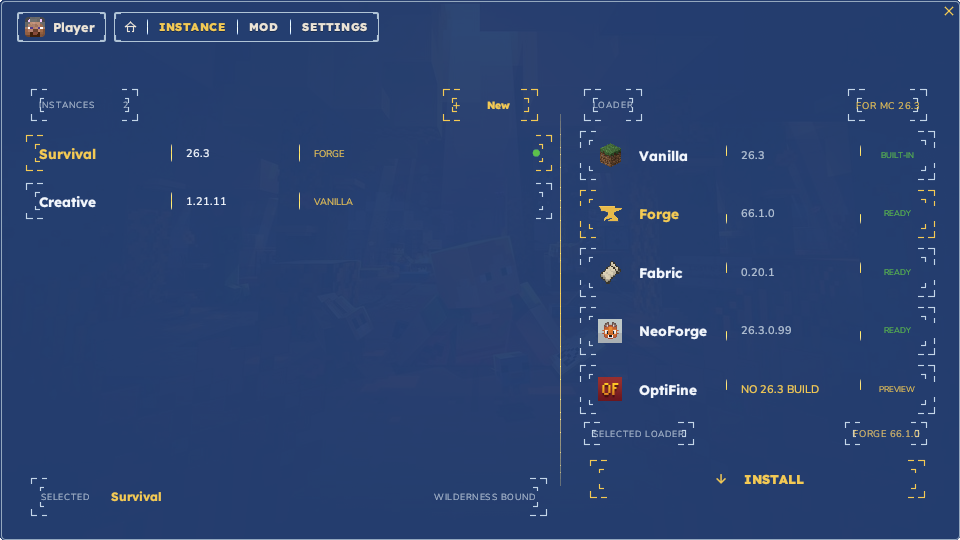
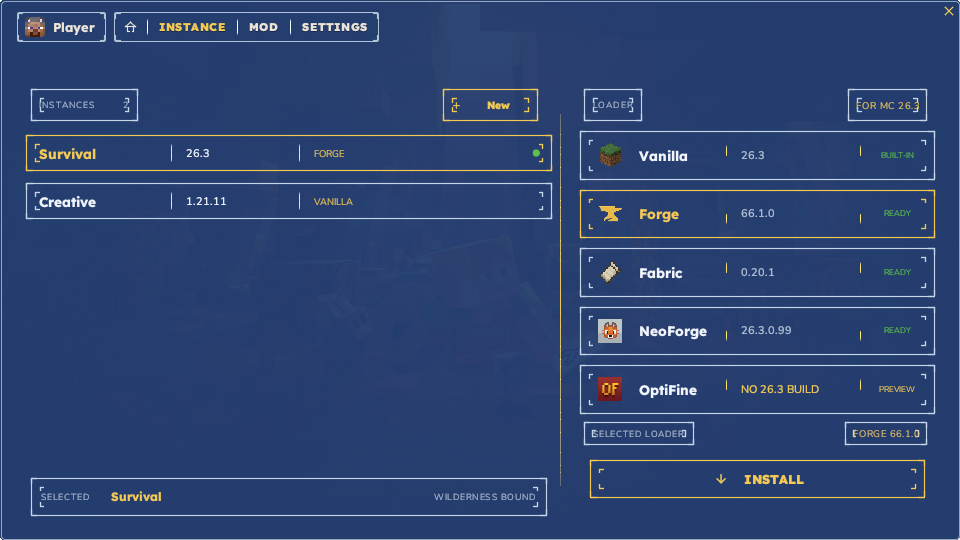
Release 0.2.19 with strokes along each element's length and width.
Version-page corners stay, including the smaller cap inside each corner.

Changed region(s): [[0.625, 0.6519, 0.9688, 0.6815], [0.625, 0.3259, 0.9688, 0.3556]]

diff --git a/src/desktop.rs b/src/desktop.rs
@@ -3244,43 +3244,38 @@ fn paint_open_frame(painter: &egui::Painter, rect: egui::Rect) {
     paint_corner_caps(painter, rect, edge);
 }
 
-/// Version-page element: the previous corner caps, a smaller cap inside each
-/// corner, and a short designed mark on each side. No full stroke.
+/// Version-page element: stroke the length and the width, keep the corner cap,
+/// and keep the smaller cap inside each corner.
 fn paint_version_corners(painter: &egui::Painter, rect: egui::Rect, on: bool) {
     let color = if on { GOLD } else { egui::Color32::from_rgb(196, 214, 232) };
-    let stroke = egui::Stroke::new(1.15, color);
+    let side = egui::Stroke::new(1.15, color);
+    let corner = egui::Stroke::new(1.35, color);
+    let left = rect.left() + 1.0;
+    let right = rect.right() - 1.0;
+    let top = rect.top() + 1.0;
+    let bottom = rect.bottom() - 1.0;
+    painter.line_segment([egui::pos2(left, top), egui::pos2(right, top)], side);
+    painter.line_segment([egui::pos2(left, bottom), egui::pos2(right, bottom)], side);
+    painter.line_segment([egui::pos2(left, top), egui::pos2(left, bottom)], side);
+    painter.line_segment([egui::pos2(right, top), egui::pos2(right, bottom)], side);
     let small = rect.height().min(rect.width()) < 30.0;
     let leg = if small { 5.0 } else { 6.0 };
     let inner = if small { 3.0 } else { 4.0 };
     let gap = 3.0;
-    let side = 5.0;
     let corners = [
-        (rect.left() + 1.0, rect.top() + 1.0, 1.0, 1.0, rect.width(), rect.height()),
-        (rect.right() - 1.0, rect.top() + 1.0, -1.0, 1.0, rect.width(), rect.height()),
-        (rect.left() + 1.0, rect.bottom() - 1.0, 1.0, -1.0, rect.width(), rect.height()),
-        (rect.right() - 1.0, rect.bottom() - 1.0, -1.0, -1.0, rect.width(), rect.height()),
+        (left, top, 1.0, 1.0),
+        (right, top, -1.0, 1.0),
+        (left, bottom, 1.0, -1.0),
+        (right, bottom, -1.0, -1.0),
     ];
-    for (x, y, sx, sy, along_x, along_y) in corners {
-        painter.line_segment([egui::pos2(x, y), egui::pos2(x + sx * leg, y)], stroke);
-        painter.line_segment([egui::pos2(x, y), egui::pos2(x, y + sy * leg)], stroke);
+    for (x, y, sx, sy) in corners {
+        painter.line_segment([egui::pos2(x, y), egui::pos2(x + sx * leg, y)], corner);
+        painter.line_segment([egui::pos2(x, y), egui::pos2(x, y + sy * leg)], corner);
         let ix = x + sx * (leg + gap);
         let iy = y + sy * (leg + gap);
-        if ix > rect.left() + 2.0 && ix < rect.right() - 2.0 && iy > rect.top() + 2.0 && iy < rect.bottom() - 2.0 {
-            painter.line_segment([egui::pos2(ix, iy), egui::pos2(ix + sx * inner, iy)], stroke);
-            painter.line_segment([egui::pos2(ix, iy), egui::pos2(ix, iy + sy * inner)], stroke);
-        }
-        let dash = leg + gap + 2.0;
-        if along_x > (dash + side) * 2.0 + 10.0 {
-            painter.line_segment(
-                [egui::pos2(x + sx * dash, y), egui::pos2(x + sx * (dash + side), y)],
-                stroke,
-            );
-        }
-        if along_y > (dash + side) * 2.0 + 10.0 {
-            painter.line_segment(
-                [egui::pos2(x, y + sy * dash), egui::pos2(x, y + sy * (dash + side))],
-                stroke,
-            );
+        if ix > left + 2.0 && ix < right - 2.0 && iy > top + 2.0 && iy < bottom - 2.0 {
+            painter.line_segment([egui::pos2(ix, iy), egui::pos2(ix + sx * inner, iy)], corner);
+            painter.line_segment([egui::pos2(ix, iy), egui::pos2(ix, iy + sy * inner)], corner);
         }
     }
 }

diff --git a/README.md b/README.md
@@ -124,8 +124,8 @@ Linux sandbox: `apt install bubblewrap`. Without it, the client still gets a pri
 
 | Platform | File |
 | --- | --- |
-| Linux x86-64 | [rus-linux-x86_64](https://github.com/obsifox/rus/releases/download/0.2.18/rus-linux-x86_64) |
-| Windows x64 | [rus-windows-x64.exe](https://github.com/obsifox/rus/releases/download/0.2.18/rus-windows-x64.exe) |
+| Linux x86-64 | [rus-linux-x86_64](https://github.com/obsifox/rus/releases/download/0.2.19/rus-linux-x86_64) |
+| Windows x64 | [rus-windows-x64.exe](https://github.com/obsifox/rus/releases/download/0.2.19/rus-windows-x64.exe) |
 
 Linux:
 
